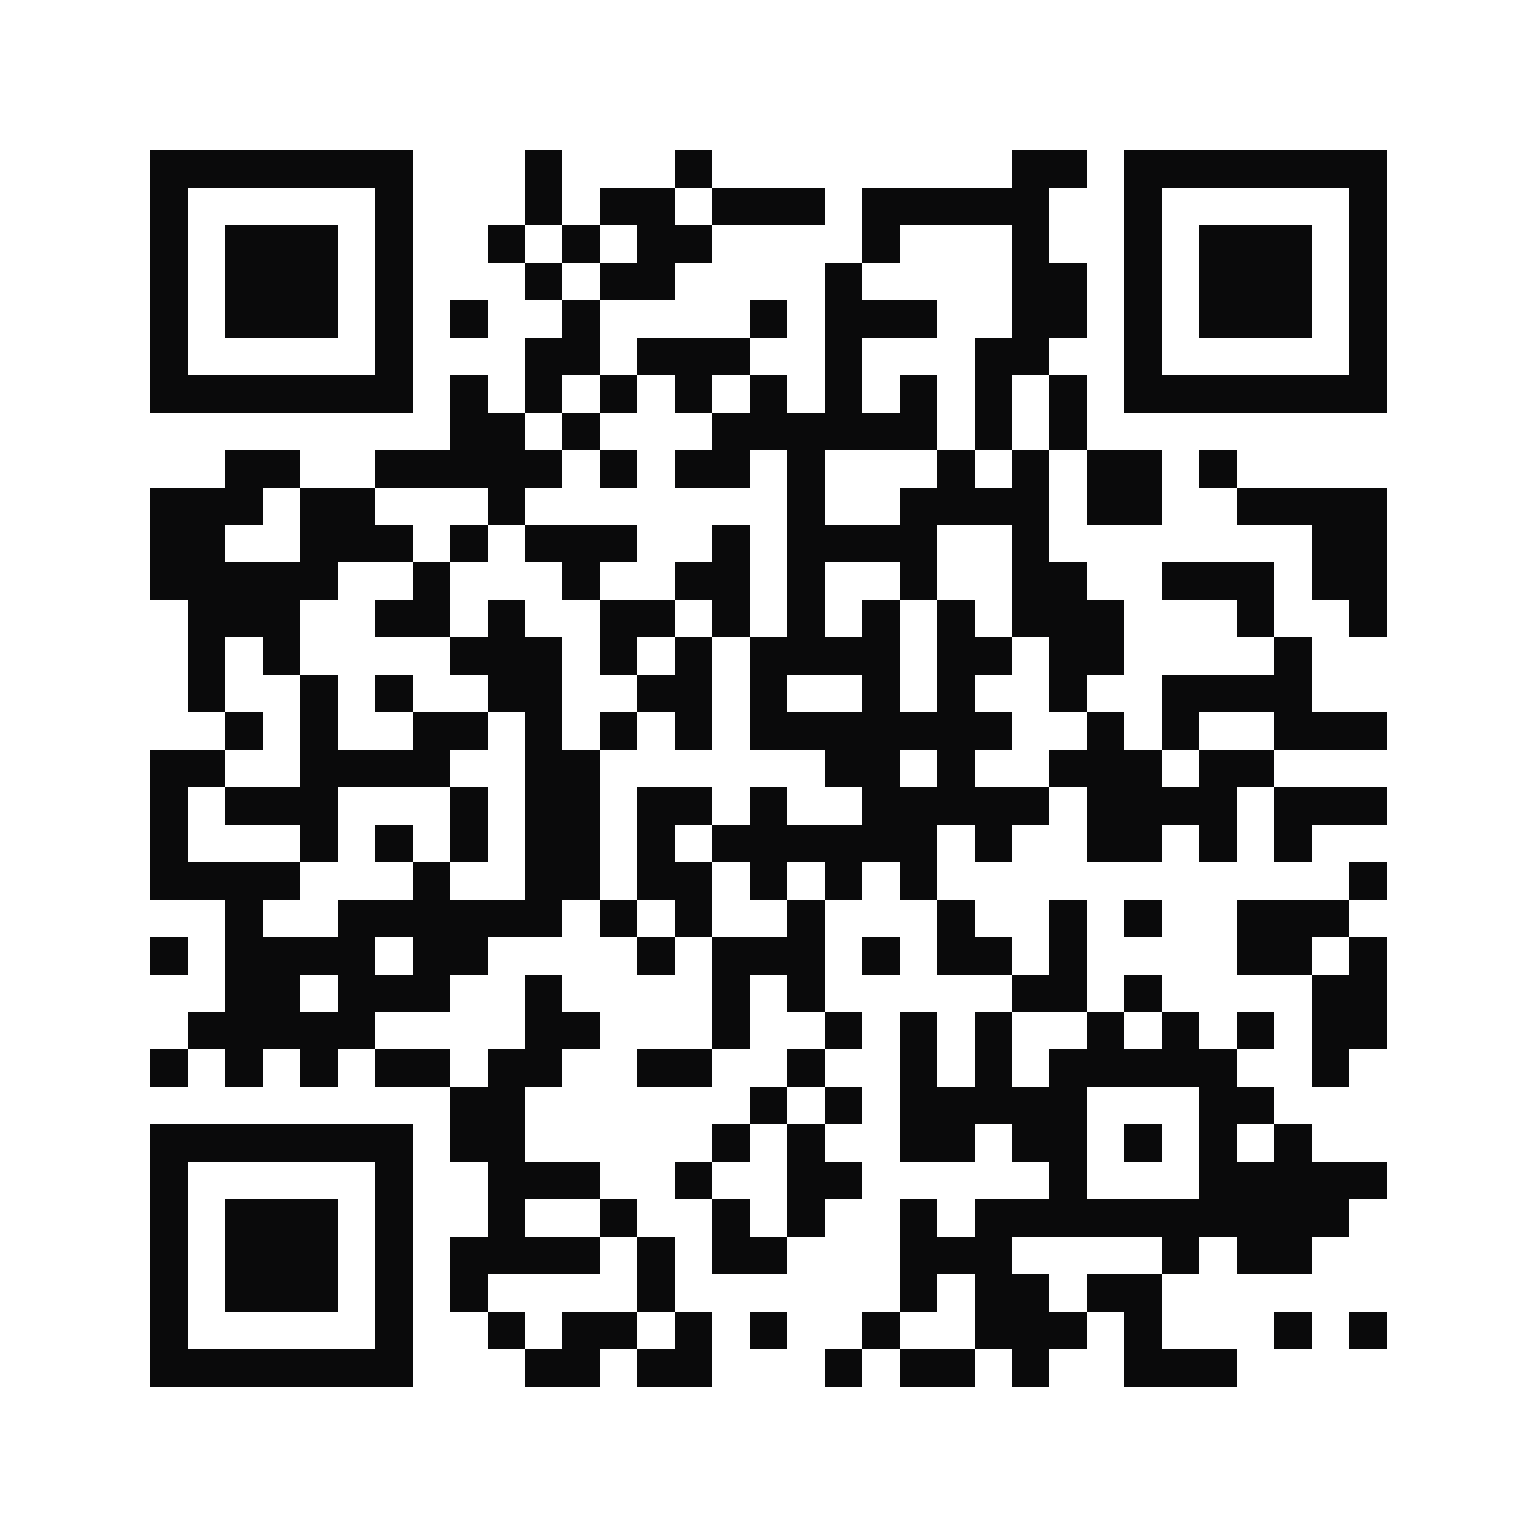
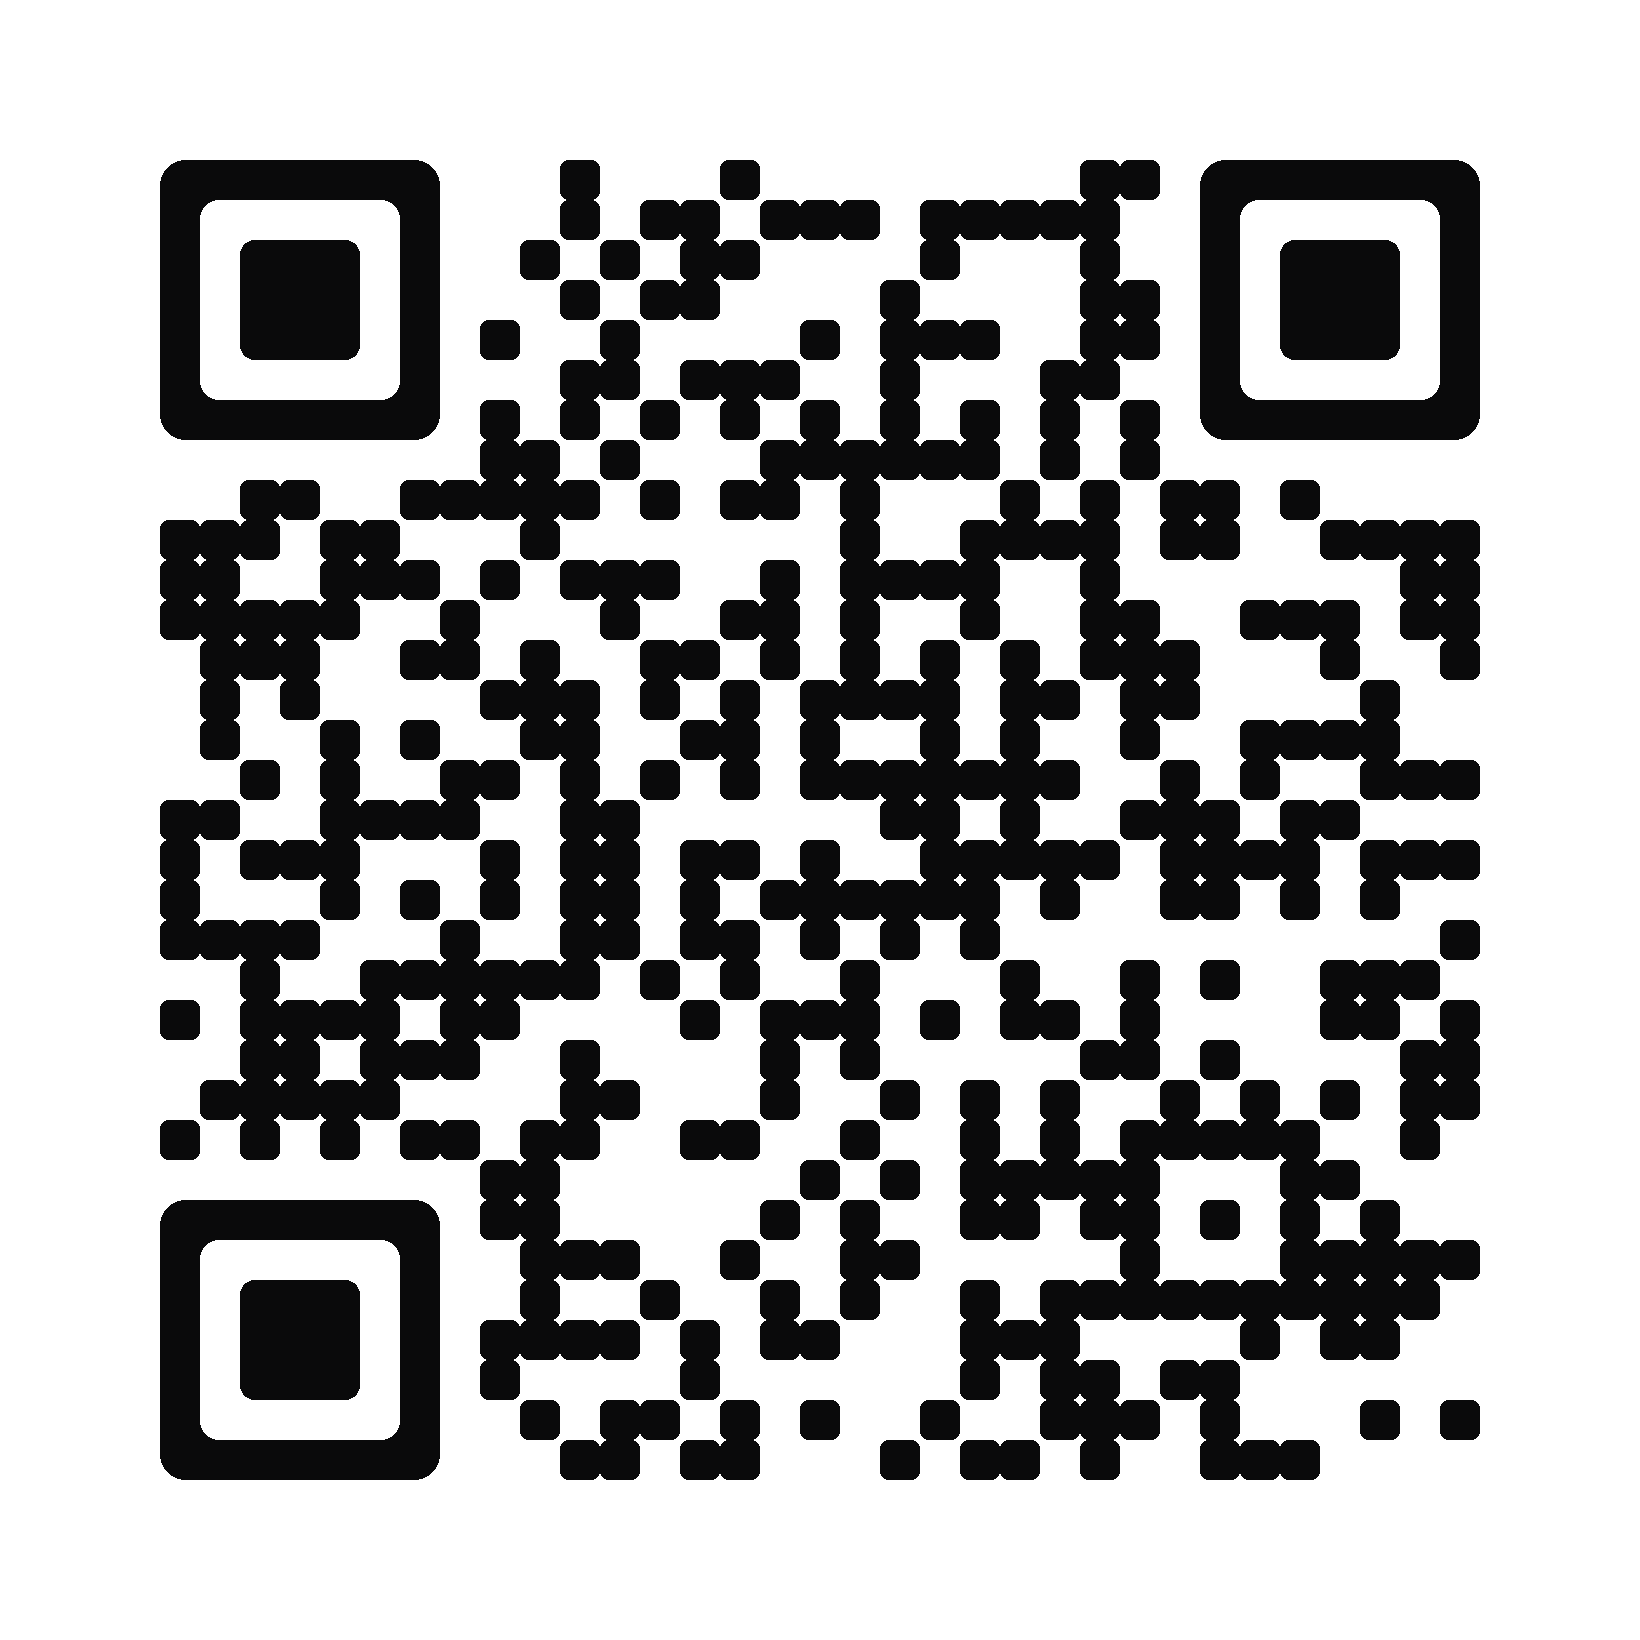
feat: render rounded branded QR assets

diff --git a/tests/unit/rounded-qr.test.js b/tests/unit/rounded-qr.test.js
@@ -1,0 +1,29 @@
+import QRCode from 'qrcode';
+import { expect, test } from 'vitest';
+import { renderRoundedQrPng, renderRoundedQrSvg } from '../../scripts/rounded-qr.mjs';
+
+const target = 'https://julismo.vercel.app/';
+const matrix = QRCode.create(target, { errorCorrectionLevel: 'H' });
+
+test('renders a rounded QR code with an unobstructed quiet zone and finder patterns', () => {
+  const svg = renderRoundedQrSvg(matrix, {
+    margin: 4,
+    dark: '#0A0A0B',
+    light: '#FFFFFF',
+  });
+  const png = renderRoundedQrPng(matrix, {
+    margin: 4,
+    modulePixels: 32,
+    dark: '#0A0A0B',
+    light: '#FFFFFF',
+  });
+
+  expect(svg).toContain(`viewBox="0 0 ${matrix.modules.size + 8} ${matrix.modules.size + 8}"`);
+  expect(svg).toContain('rx="0.22"');
+  expect(svg).toContain('aria-label="Finder pattern top left"');
+  expect(svg).toContain('aria-label="Finder pattern top right"');
+  expect(svg).toContain('aria-label="Finder pattern bottom left"');
+  expect(svg).not.toContain('shape-rendering="crispEdges"');
+  expect(Buffer.isBuffer(png)).toBe(true);
+  expect(png.length).toBeGreaterThan(0);
+});

diff --git a/vitest.config.ts b/vitest.config.ts
@@ -4,6 +4,6 @@ import { getViteConfig } from 'astro/config';
 export default getViteConfig({
   test: {
     environment: 'node',
-    include: ['tests/unit/**/*.test.ts'],
+    include: ['tests/unit/**/*.test.{js,ts}'],
   },
 });
